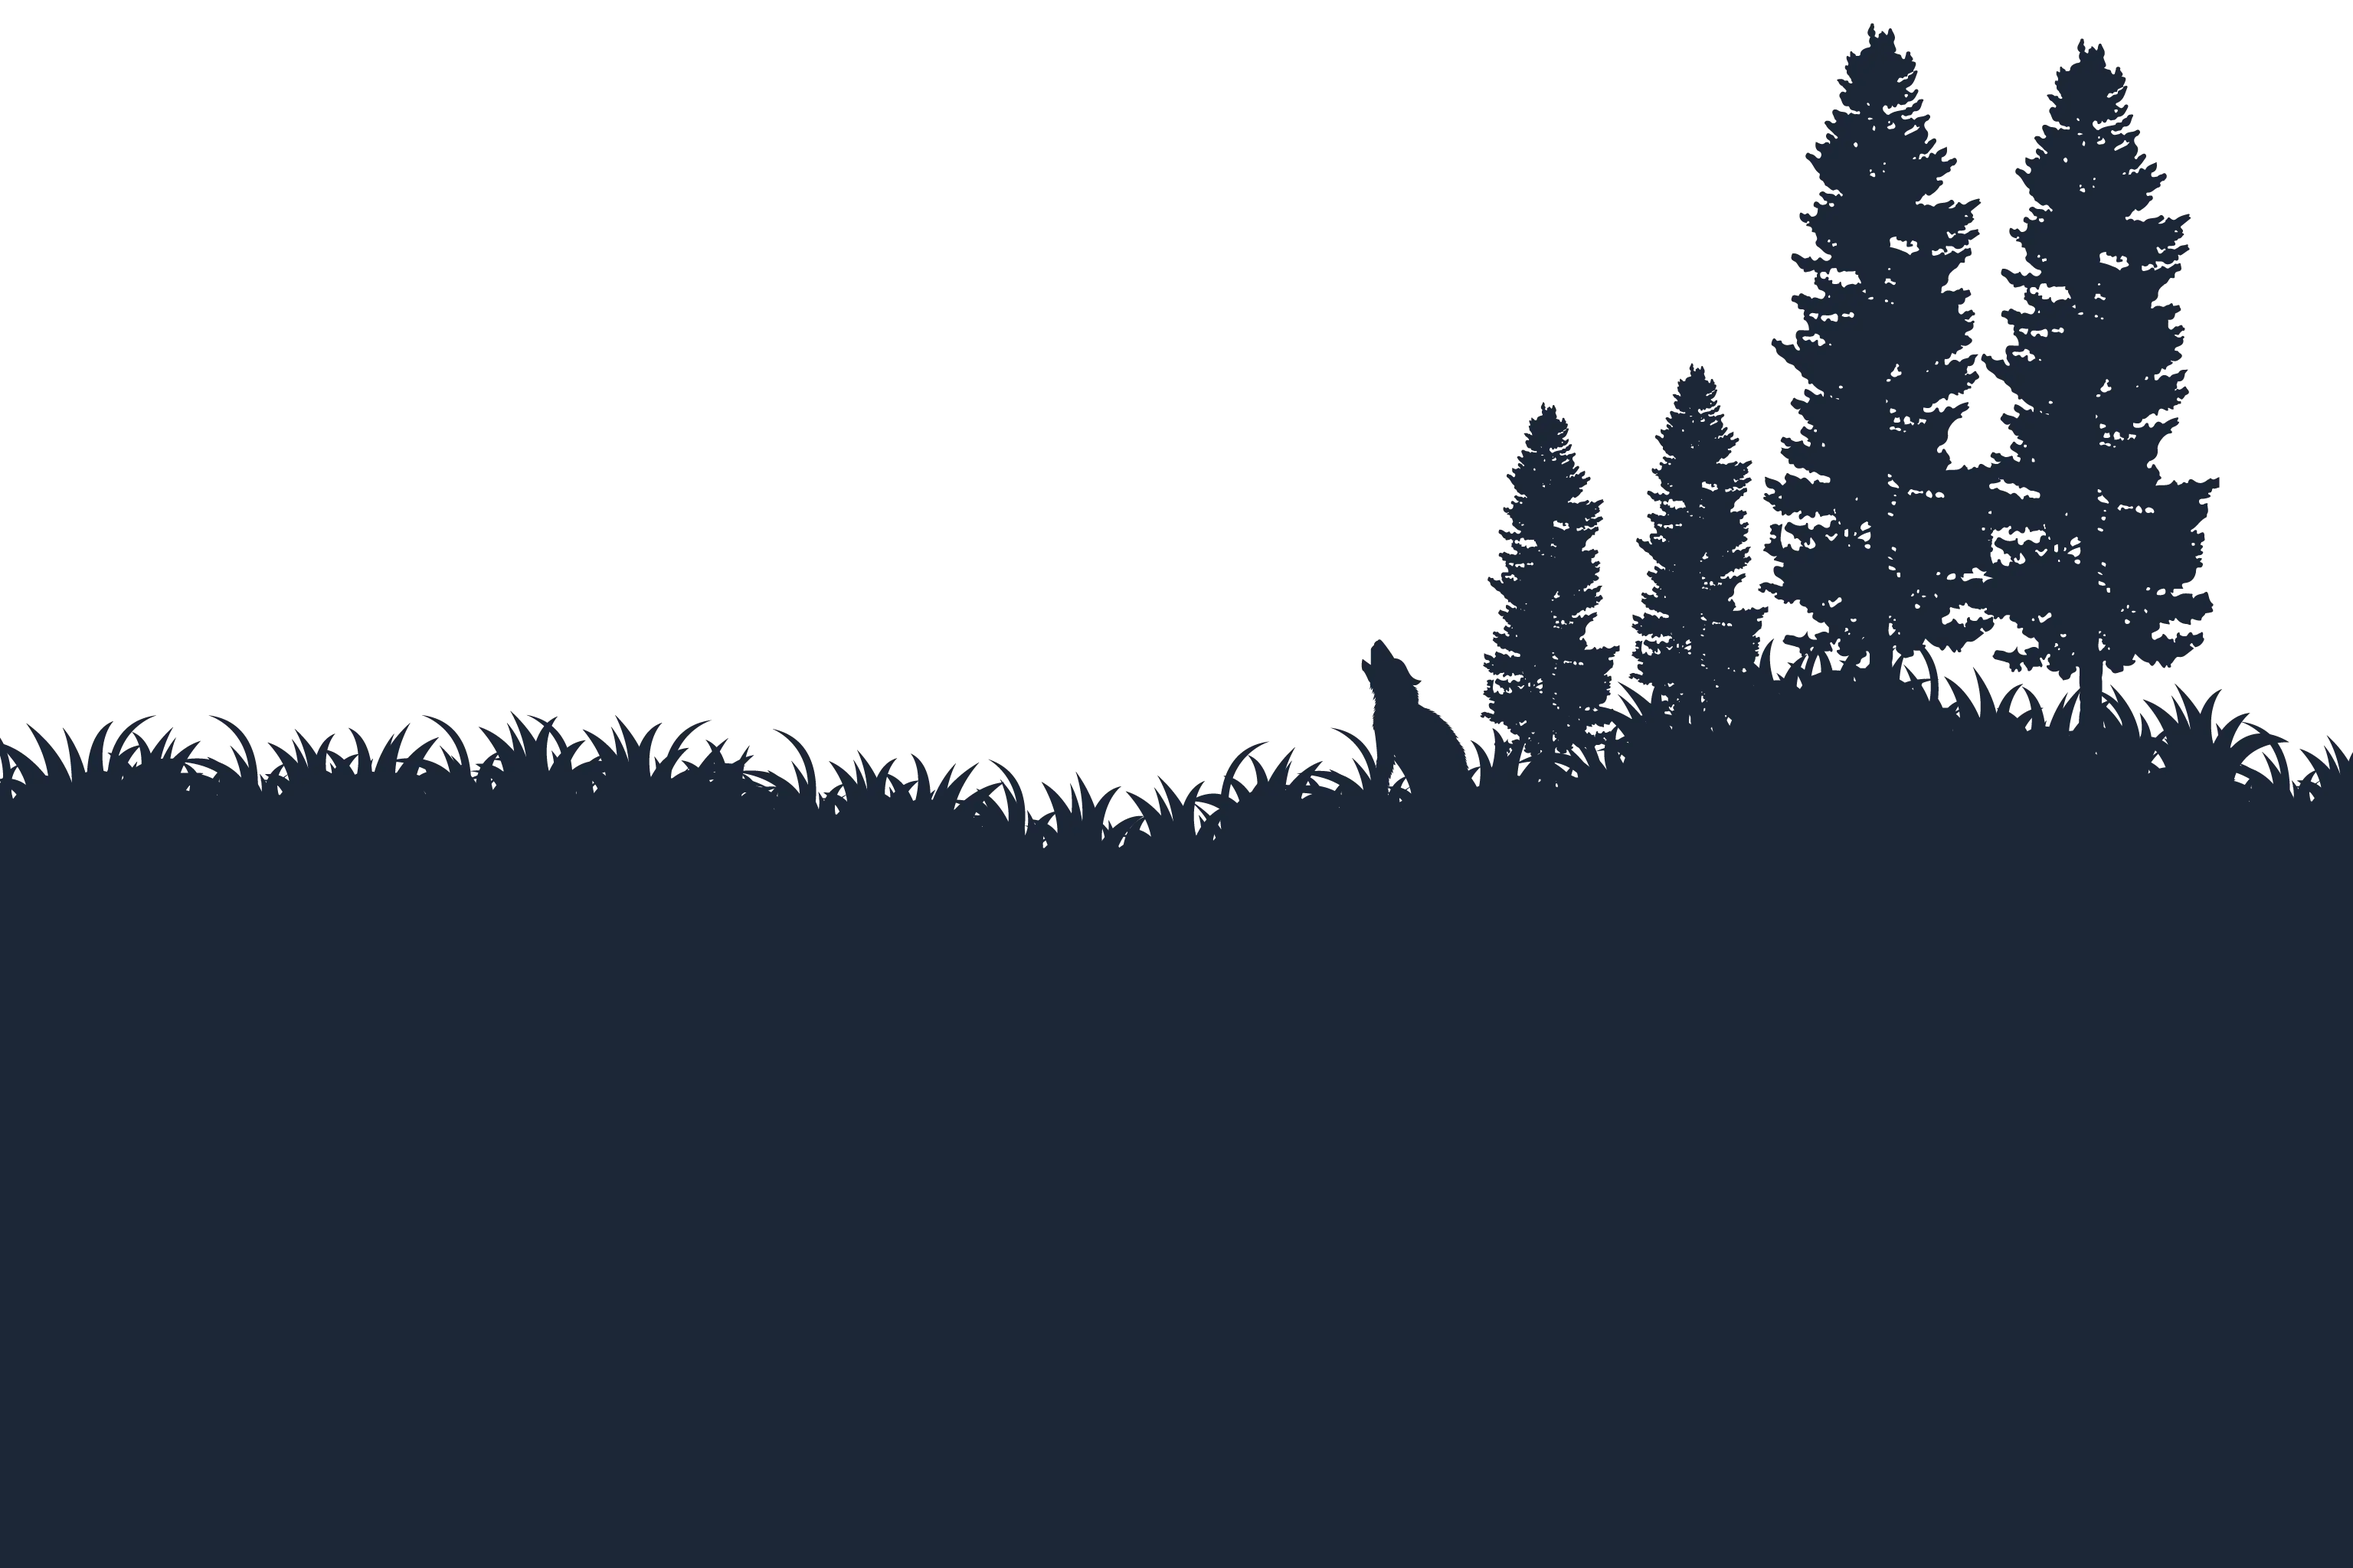
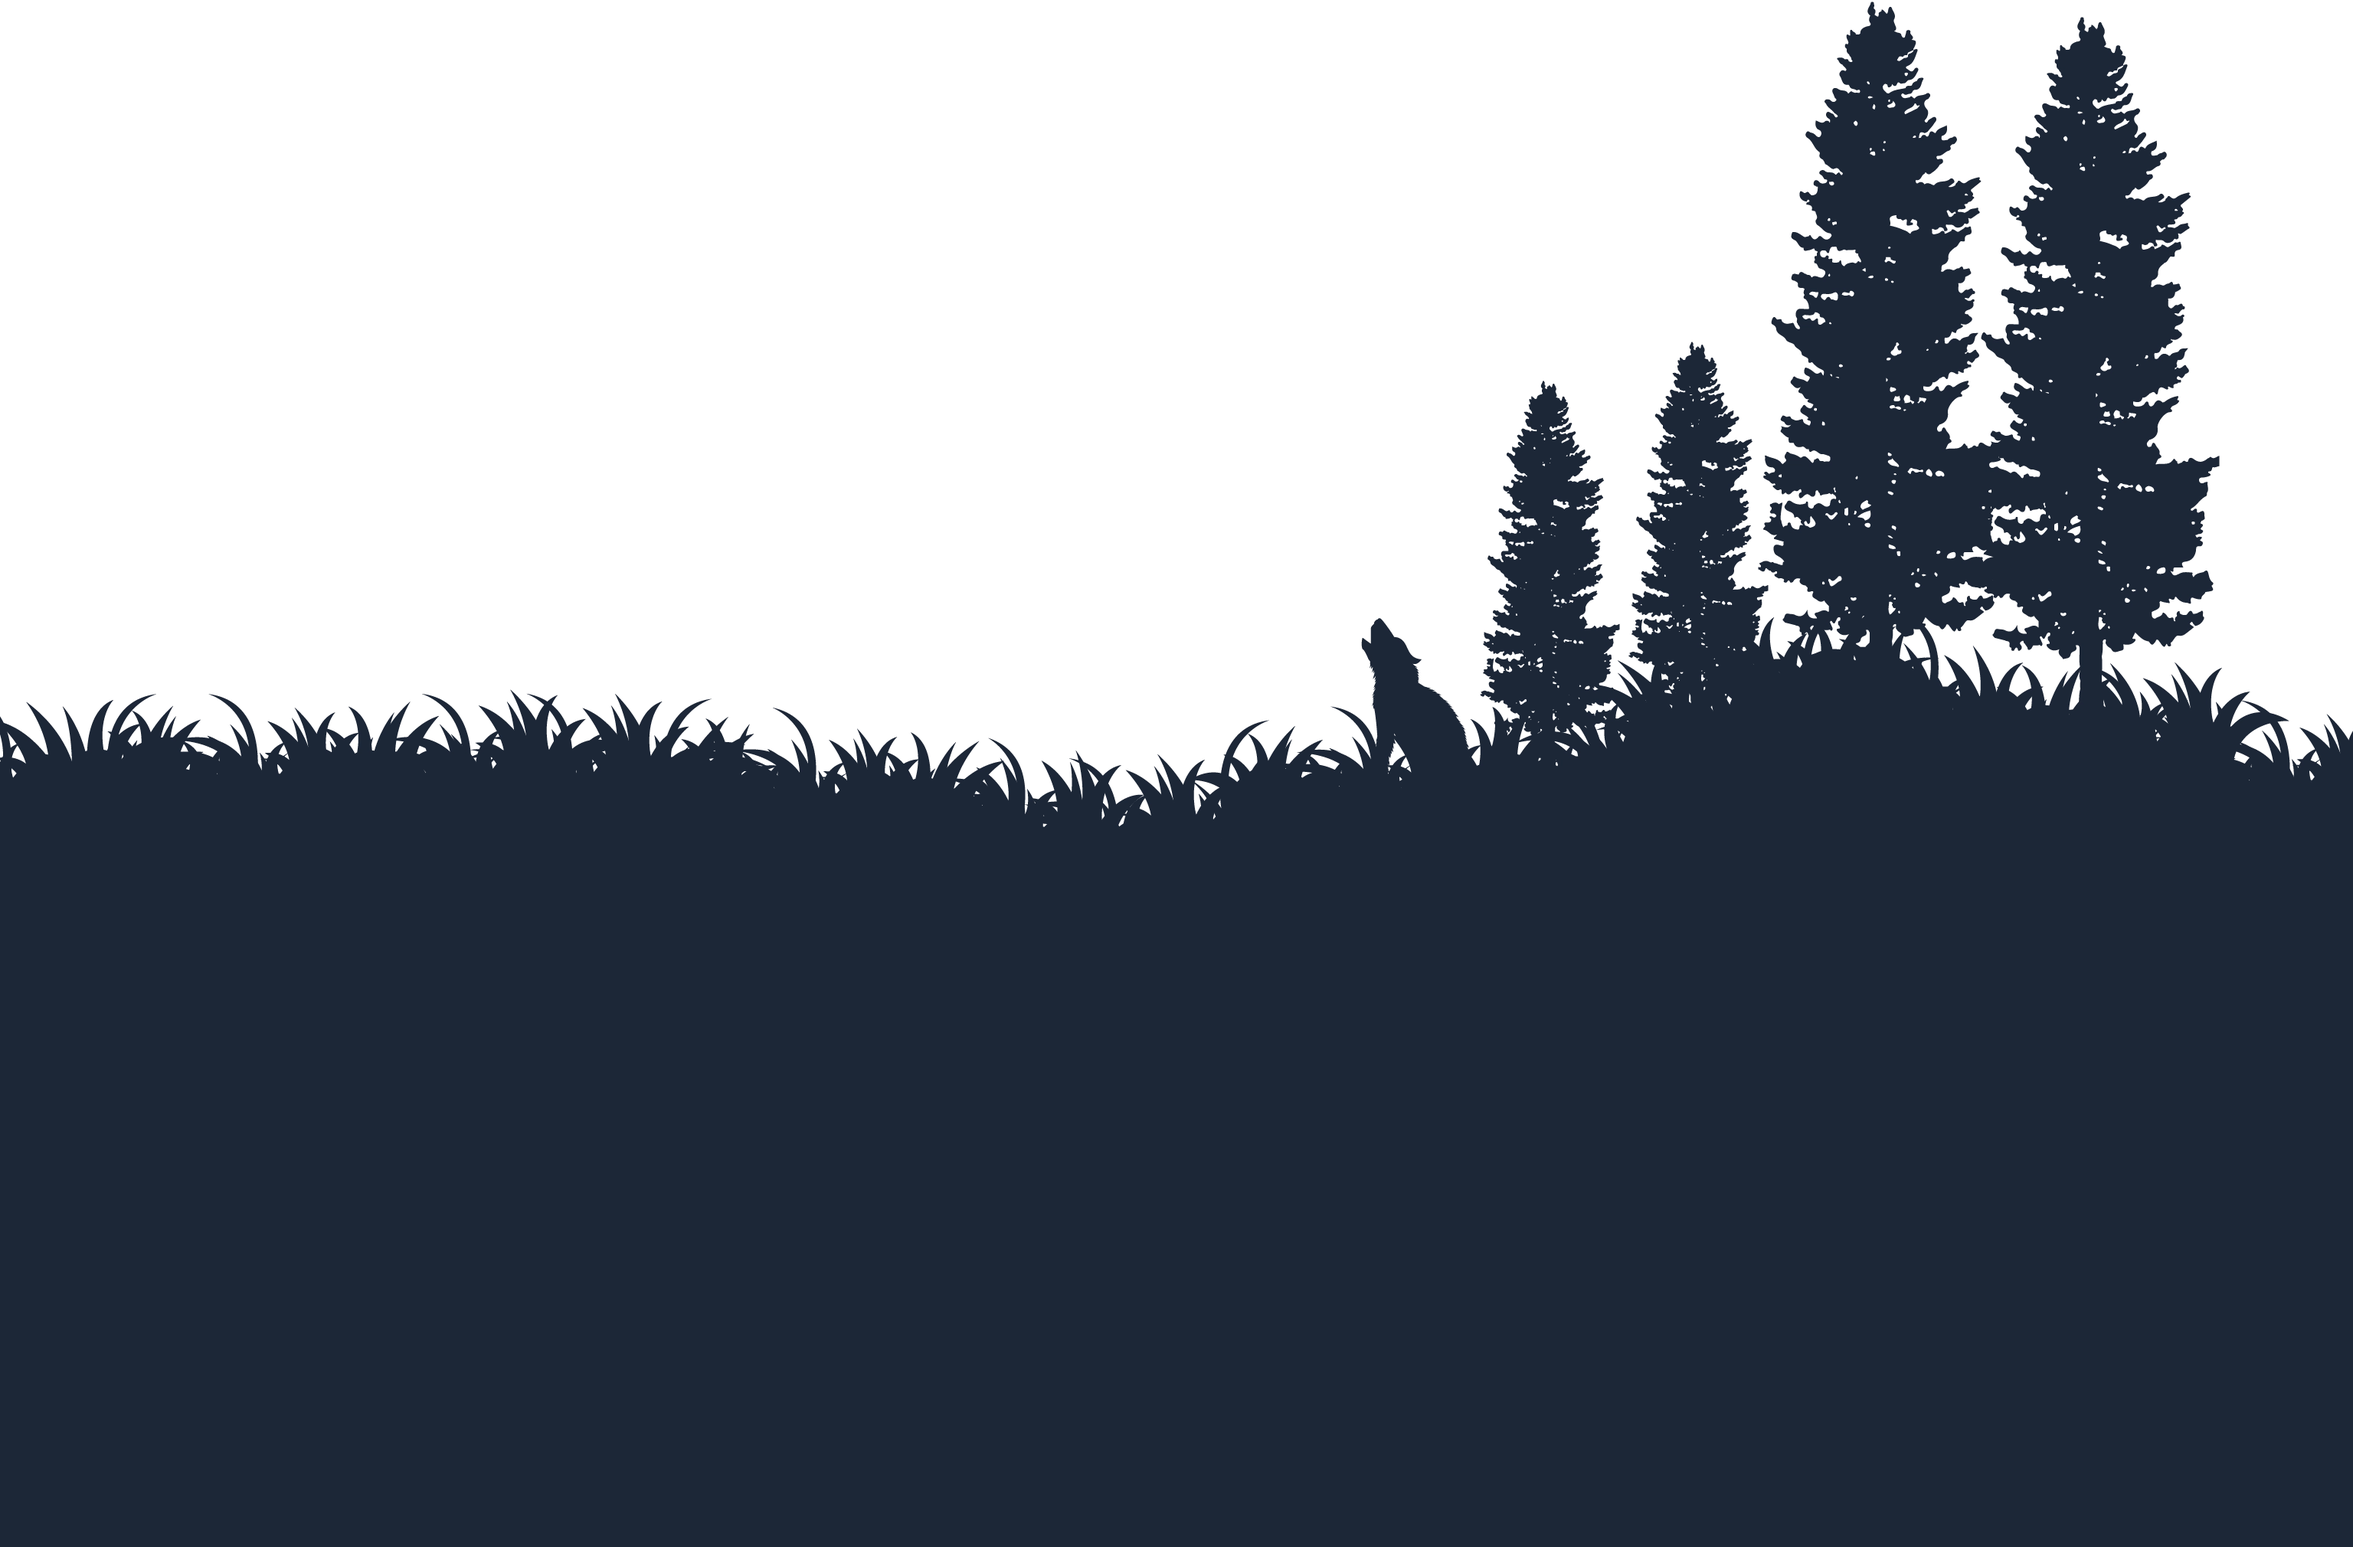
parallax

Changed region(s): [[0.0, 0.0, 1.0, 0.5302], [0.5625, 0.4054, 0.5938, 0.4366]]

diff --git a/src/pages/index.js b/src/pages/index.js
@@ -65,11 +65,11 @@ export default function Home() {
                     {text_animation}
                 </div>
                     <div data-scroll-speed={5} data-scroll key={"parallax-layer-1"} id={"parallax-layer-1"} className={"parallax-layer-1 parallax-layer"}></div>
-                    <div data-scroll-speed={4} data-scroll key={"parallax-layer-1-extender"} id={"parallax-layer-1-extender"} className={"parallax-layer-1-extender parallax-layer"}></div>
-                    <div data-scroll-speed={4} data-scroll key={"parallax-layer-2"} id={"parallax-layer-2"} className={"parallax-layer-2 parallax-layer"}></div>
-                    <div data-scroll-speed={3} data-scroll key={"parallax-layer-3"} id={"parallax-layer-3"} className={"parallax-layer-3 parallax-layer"}></div>
-                    <div data-scroll-speed={2} data-scroll key={"parallax-layer-4"} id={"parallax-layer-4"} className={"parallax-layer-4 parallax-layer"}></div>
-                <div className="bg-[#1C2637] text-3xl sm:text-6xl flex min-h-screen flex-wrap justify-center items-center font-extrabold section-1">
+                    <div data-scroll-speed={5} data-scroll key={"parallax-layer-1-extender"} id={"parallax-layer-1-extender"} className={"parallax-layer-1-extender parallax-layer"}></div>
+                    <div data-scroll-speed={3} data-scroll key={"parallax-layer-2"} id={"parallax-layer-2"} className={"parallax-layer-2 parallax-layer"}></div>
+                    <div data-scroll-speed={1} data-scroll key={"parallax-layer-3"} id={"parallax-layer-3"} className={"parallax-layer-3 parallax-layer"}></div>
+                    <div data-scroll-speed={-1} data-scroll key={"parallax-layer-4"} id={"parallax-layer-4"} className={"parallax-layer-4 parallax-layer"}></div>
+                <div className="bg-[#1C2737] text-3xl sm:text-6xl flex min-h-screen flex-wrap justify-center items-center font-extrabold section-1">
                     LOL
                 </div>
             </div>

diff --git a/src/styles/globals.css b/src/styles/globals.css
@@ -8,6 +8,7 @@
     --background-end-rgb: #ced4da;
     --base-scroll: #adb5bd;
     --base-scroll-hover: #8e949b;
+    --innerHeight: 0
 }
 .dark:root {
     --foreground-rgb: #f8f9fa;
@@ -28,7 +29,7 @@
 body {
     color: var(--foreground-rgb);
     background: linear-gradient(to bottom, transparent, var(--background-end-rgb)) var(--background-start-rgb);
-    @apply max-w-[1280px] mx-auto;
+    @apply max-w-[2560px] mx-auto;
 }
 .loaded {
     @apply transition duration-1000 opacity-0 delay-200;
@@ -43,21 +44,24 @@ div[data-aos][data-aos-easing][data-aos-delay].text-exit {
     @apply absolute;
 }
 .parallax-layer-1-extender {
-    @apply h-[200px] w-screen bg-[#1C2637] z-[100] top-1/2;
+    @apply h-1/3 w-screen bg-[#1C2737] z-[100] top-[75vmin];
 }
 .parallax-layer-1 {
-    @apply h-[700px] w-screen bg-[url('/layer-1.webp')] bg-top bg-cover z-[100];
-    top: calc(50% - 450px);
+    @apply h-[80vh] w-screen bg-[url('/layer-1.webp')] bg-top bg-cover z-[100];
+    top: 15vmin;
 }
 .parallax-layer-2 {
-    @apply h-[700px] w-screen bg-[url('/layer-2.webp')] bg-top bg-cover z-[99];
-    top: calc(50% - 600px);
+    @apply h-[60vh] w-screen bg-[url('/layer-2.webp')] bg-left-top bg-cover z-[99];
+    top: 45vmin;
 }
 .parallax-layer-3 {
-    @apply h-[350px] w-screen bg-red-500 z-[98];
-    top: calc(50% - 350px);
+    @apply h-[80vh] w-screen bg-[url('/layer-3.webp')] bg-top bg-cover z-[98];
+    top: 20vmin;
 }
 .parallax-layer-4 {
-    @apply h-[450px] w-screen bg-orange-500 z-[97];
-    top: calc(50% - 450px);
+    @apply h-[70vh] w-screen bg-[url('/layer-4.webp')] bg-top bg-cover z-[97];
+    top: 15vmin;
+}
+.section-1 {
+    @apply z-[200] relative;
 }

diff --git a/src/pages/_app.js b/src/pages/_app.js
@@ -14,7 +14,7 @@ export default function App({ Component, pageProps }) {
     useEffect(() => {
         window.scrollTo(0, 0);
         async function fetchData() {
-            await LoadImage(["layer-1.webp","layer-2.webp"]);
+            await LoadImage(["layer-1.webp","layer-2.webp","layer-3.webp", "layer-4.webp"]);
             setLmageloaded(true);
         }
         if (imageloaded) {

diff --git a/src/components/loading.js b/src/components/loading.js
@@ -6,6 +6,7 @@ export default function Loading({ loaded }) {
         setTimeout(() => {
             document.querySelector(".loading-screen")?.remove();
             Aos.init();
+            document.querySelector(":root").style.setProperty("--innerHeight", window.innerHeight + "px");
         }, loadedDelay);
     }
     return (
